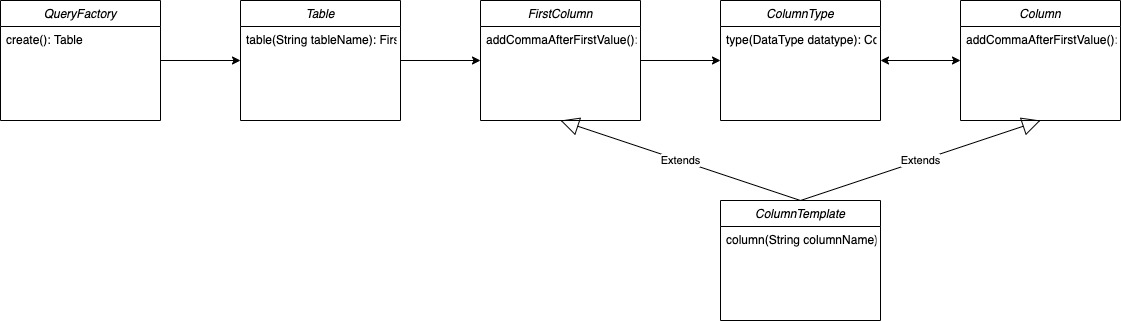
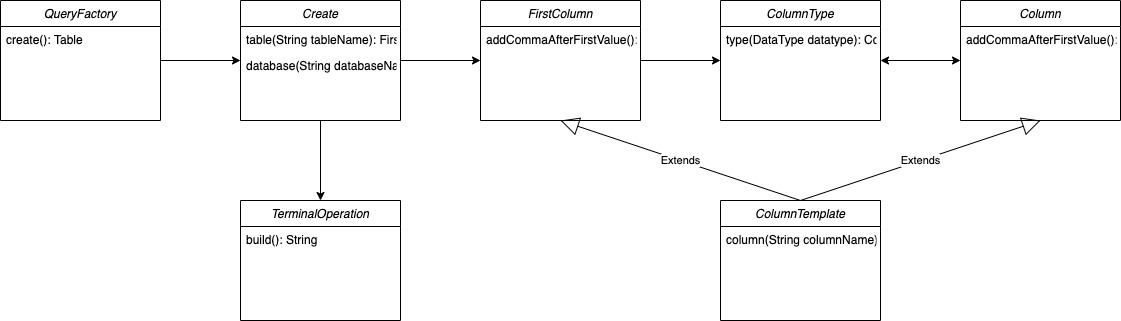
added CREATE DATABASE statement

diff --git a/src/test/java/builder/select/order/OrderByTest.java b/src/test/java/builder/select/order/OrderByTest.java
@@ -1,5 +1,6 @@
 package builder.select.order;
 
+import builder.select.table.Table;
 import database.DatabaseTestBaseClass;
 import factory.QueryFactory;
 import org.junit.Before;
@@ -10,21 +11,32 @@ import java.sql.SQLException;
 import static org.junit.Assert.assertEquals;
 
 public class OrderByTest extends DatabaseTestBaseClass {
-    private GroupByTemplate groupBy;
+    private Table table;
 
     @Before
     public void setUpQuery() {
-        this.groupBy = QueryFactory
+        this.table = QueryFactory
                 .select()
                     .field("*")
-                .from("person")
-                .groupBy()
-                    .column("age");
+                .from("person");
     }
 
     @Test
     public void testOrderBy() throws SQLException {
-        String query = groupBy
+        String query = table
+                .orderBy()
+                    .column("firstname")
+                .build();
+
+        assertEquals("SELECT * FROM person ORDER BY firstname;", query);
+        assertThatQueryIsValidSQL(query);
+    }
+
+    @Test
+    public void testOrderByGroupBy() throws SQLException {
+        String query = table
+                .groupBy()
+                    .column("age")
                 .orderBy()
                     .column("firstname")
                 .build();
@@ -34,8 +46,10 @@ public class OrderByTest extends DatabaseTestBaseClass {
     }
 
     @Test
-    public void testMultipleOrderBy() throws SQLException {
-        String query = groupBy
+    public void testMultipleOrderByGroupBy() throws SQLException {
+        String query = table
+                .groupBy()
+                    .column("age")
                 .orderBy()
                     .column("firstname")
                     .column("lastname")
@@ -47,8 +61,10 @@ public class OrderByTest extends DatabaseTestBaseClass {
     }
 
     @Test
-    public void testMultipleOrderByWithAscDesc() throws SQLException {
-        String query = groupBy
+    public void testMultipleOrderByGroupByWithAscDesc() throws SQLException {
+        String query = table
+                .groupBy()
+                    .column("age")
                 .orderBy()
                     .column("firstname").asc()
                     .column("lastname").desc()

diff --git a/src/test/java/builder/select/order/GroupByTest.java b/src/test/java/builder/select/order/GroupByTest.java
@@ -3,6 +3,7 @@ package builder.select.order;
 import builder.select.table.Table;
 import database.DatabaseTestBaseClass;
 import factory.QueryFactory;
+import junit.framework.Assert;
 import org.junit.Before;
 import org.junit.Test;
 
@@ -42,6 +43,18 @@ public class GroupByTest extends DatabaseTestBaseClass {
                 .build();
 
         assertEquals("SELECT * FROM person GROUP BY age, firstname, lastname;", query);
+        assertThatQueryIsValidSQL(query);
+    }
+
+    @Test
+    public void testGroupByWhere() throws SQLException {
+        String query = this.table
+                .where("age").greaterThan(18)
+                .groupBy()
+                    .column("lastname")
+                .build();
+
+        Assert.assertEquals("SELECT * FROM person WHERE age > 18 GROUP BY lastname;", query);
         assertThatQueryIsValidSQL(query);
     }
 

diff --git a/src/test/java/builder/create/CreateTest.java b/src/test/java/builder/create/CreateTest.java
@@ -11,7 +11,7 @@ import static junit.framework.Assert.assertEquals;
 public class CreateTest extends DatabaseTestBaseClass {
 
     @Test
-    public void testDataTypes() throws SQLException {
+    public void testCreateTableDataTypes() throws SQLException {
         String query = QueryFactory
                 .create()
                 .table("cars")
@@ -29,4 +29,15 @@ public class CreateTest extends DatabaseTestBaseClass {
         assertThatQueryIsValidSQL(query);
     }
 
+    @Test
+    public void testCreateDatabase() throws SQLException {
+        String query = QueryFactory
+                .create()
+                .database("test_db")
+                .build();
+
+        assertEquals("CREATE DATABASE test_db;", query);
+        // command not supported in H2?
+        //assertThatQueryIsValidSQL(query);
+    }
 }

diff --git a/src/test/java/builder/select/conjunction/ConjunctionTest.java b/src/test/java/builder/select/conjunction/ConjunctionTest.java
@@ -54,15 +54,4 @@ public class ConjunctionTest extends DatabaseTestBaseClass {
         assertEquals("SELECT firstname FROM person WHERE age > 18 AND birthdate > '2020-02-28T21:00:00.000' OR birthdate < '2018-02-28T21:00:00.000';", query);
         assertThatQueryIsValidSQL(query);
     }
-
-    @Test
-    public void testGroupBy() throws SQLException {
-        String query = this.table
-                .where("age").greaterThan(18)
-                .groupBy().column("lastname")
-                .build();
-
-        assertEquals("SELECT firstname FROM person WHERE age > 18 GROUP BY lastname;", query);
-        assertThatQueryIsValidSQL(query);
-    }
 }

diff --git a/src/main/java/builder/create/Create.java b/src/main/java/builder/create/Create.java
@@ -1,0 +1,24 @@
+package builder.create;
+
+import builder.SQLStringBuilder;
+import builder.TerminalOperation;
+
+public class Create extends SQLStringBuilder {
+
+    public Create(StringBuilder builder) {
+        this.builder = builder;
+    }
+
+    public FirstColumn table(String tableName) {
+        append("TABLE ");
+        append(tableName);
+        append(" ()");
+        return new FirstColumn(this.builder);
+    }
+
+    public TerminalOperation database(String databaseName) {
+        append("DATABASE ");
+        append(databaseName);
+        return new TerminalOperation(this.builder);
+    }
+}

diff --git a/src/main/java/factory/QueryFactory.java b/src/main/java/factory/QueryFactory.java
@@ -1,5 +1,6 @@
 package factory;
 
+import builder.create.Create;
 import builder.select.field.FirstField;
 
 public class QueryFactory {
@@ -20,8 +21,8 @@ public class QueryFactory {
         return new builder.insert.Table(new StringBuilder("INSERT INTO () VALUES ()"));
     }
 
-    public static builder.create.Table create() {
-        return new builder.create.Table(new StringBuilder("CREATE TABLE ()"));
+    public static Create create() {
+        return new Create(new StringBuilder("CREATE "));
     }
 
     private static FirstField selectClause(String clause) {

diff --git a/src/test/java/builder/select/table/CreateTest.java b/src/test/java/builder/select/table/CreateTest.java
@@ -10,7 +10,7 @@ import java.sql.SQLException;
 
 import static junit.framework.Assert.assertEquals;
 
-public class TableTest extends DatabaseTestBaseClass {
+public class CreateTest extends DatabaseTestBaseClass {
     private Field field;
 
     @Before

diff --git a/README.md b/README.md
@@ -52,7 +52,7 @@ Check the latest version from [GitHub](https://github.com/MiguelSombrero/sql-que
 In order to be implemented:
 - Create table AS clauses (CREATE table x AS, ...)
 - Create table constraints (NOT NULL, foreign key, ...)
-- More database queries (CREATE DATABASE, DROP DATABASE, ...) 
+- Drop clause (DROP DATABASE, DROP TABLE, ...) 
 - Update clauses (UPDATE, SET, ...)
 - Delete clauses (DELETE, ...)
 - Between operator (BETWEEN x AND y)
